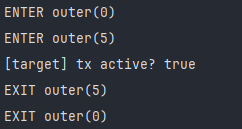
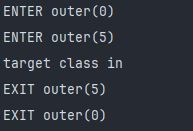
feat: curiosity spring 1

diff --git a/_posts/curiosity/spring/발행전_최우선.md b/_posts/curiosity/spring/발행전_최우선.md
@@ -98,10 +98,8 @@ public class ExampleService {
         this.jdbcTemplate = jdbcTemplate;
     }
 
-    @Transactional
     public void placeOrder() {
-        System.out.println("[target] tx active? "
-                + TransactionSynchronizationManager.isActualTransactionActive());
+        System.out.println("target class in");
         jdbcTemplate.update("INSERT INTO biz_order(content) VALUES ('order-1')");
         throw new RuntimeException("boom");
     }
@@ -130,7 +128,7 @@ public class OuterAspect {
 
 > @Order(5) 소스는 위 소스와 @Order 순서와 로그 내용만 달라 생략.
 
-[첫번째 이미지]
+![](/assets/img/posts/curiosity/spring/curiosity-spring-1/curiosity-spring-1-img-1.png)
 
 `ENTER 0 → ENTER 5 → target → EXIT 5 → EXIT 0`. 0이 바깥, 5가 안. **진입은 작은 숫자부터, 이탈은 큰 숫자부터.** 겹이라는 그림 그대로다.
 
